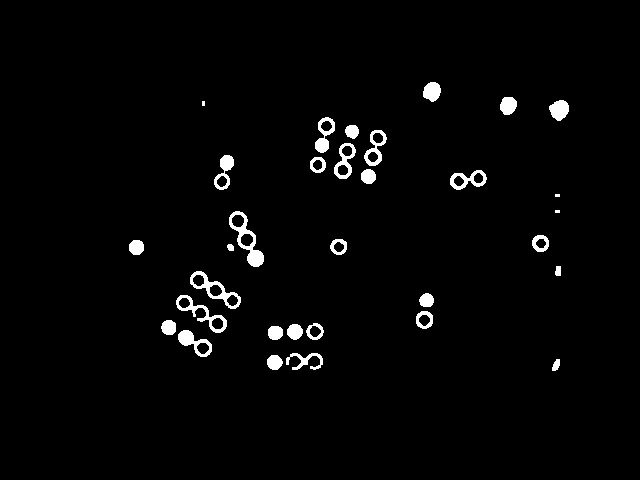
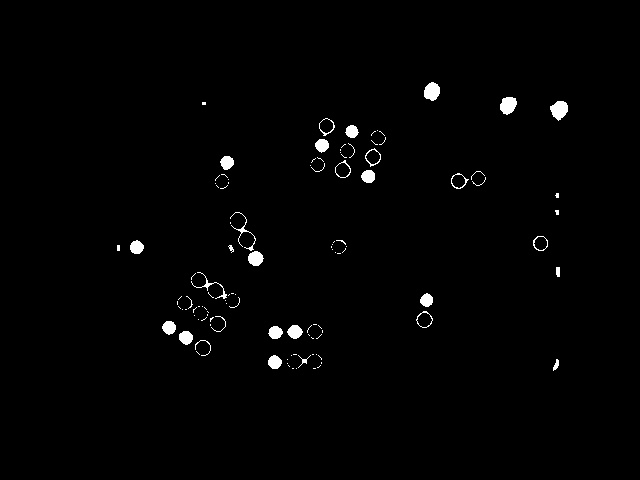
;;

diff --git a/app.py b/app.py
@@ -12,11 +12,13 @@ def getColorLayerImg(img,code_chanel):
     return new_image
 
 def findObjects(img,min_value1,min_value2):
-    cv2.imshow('111111111',   img)
+  
     # ret,tresh_image1 = cv2.threshold(img,min_value1,255,cv2.THRESH_BINARY )
     # ret,tresh_image2 = cv2.threshold(img,min_value2,255,cv2.THRESH_BINARY )
-   
-    return cv2.inRange(img,0, 40)
+    # robo 3
+    return cv2.inRange(img,5, 50)
+    # robo 2
+    # return cv2.inRange(img,100, 170)
     # return cv2.add(tresh_image1, tresh_image2)
 
 def increase_brightness(img, value=50):
@@ -54,26 +56,42 @@ def setImageLayersByPresentationMethod(img,path2folder,prefix):
 
     if(prefix == "lab"):
 
-    
-     
-        tmp = findObjects( b + b + g ,155,10)
- 
+        # cv2.imshow('b2',   b )
+        # cv2.imshow('r3',   r )
+        # cv2.imshow('g4',   g)
+        # # cv2.imshow('tmp', dark_lab)
+        # cv2.waitKey(0)
+        # cv2.destroyAllWindows()        
+        tmp = findObjects( b + b + g  ,155,10)
+        # tmp = findObjects( b +b + g -r ,255,0)
+        
+       
+        # cv2.imshow(' b  + g',    b +b + g -r )
         cv2.imwrite(path2folder+ "/binary/lab/blue_lab_binary.jpg",tmp)  
   
        
         image_copy = tmp.copy()
-        cv2.imshow('tmp',   tmp )
+        
        
         # output = cv2.drawContours(image=image_copy, contours=contours, contourIdx=-1, color=(22, 222, 30), thickness=3, lineType=cv2.LINE_AA)
-        kernel = np.ones((5, 5), 'uint8')
- 
-        # dilate_img = cv2.dilate(tmp, kernel, iterations=1)
-        # kernel = np.ones((3, 3), 'uint8')
-        # erode_img = cv2.erode(dilate_img, kernel, iterations=1)
-       
+        kernel = np.ones((3,3), 'uint8')
+        contours, hierarchy = cv2.findContours( image_copy, cv2.RETR_TREE, cv2.CHAIN_APPROX_SIMPLE)
+        cv2.drawContours( image_copy, contours, -1, (255,0,0), 3, cv2.LINE_AA, hierarchy, 1 )
+        dilate_img = cv2.dilate(image_copy, kernel, iterations=1)
+        kernel = np.ones((3, 3), 'uint8')
+        erode_img = cv2.erode(dilate_img, kernel, iterations=1)
+        # dilate_img_v2 = prepareImageV2(erode_img)
+        # kernel = np.ones((3,3), 'uint8')
+        # dilate_img_v2 = cv2.dilate(dilate_img_v2, kernel, iterations=1)
+        # kernel = np.ones((4, 4), 'uint8')
+        # erode_img2 = cv2.erode(erode_img, kernel, iterations=1)
         # erode_img_medianBlur = cv2.medianBlur(erode_img, 3)
-        cv2.imshow('erode_img',   tmp )
+        # cv2.imshow('erode_img',   erode_img )
         # cv2.imshow('erode_img_medianBlur 3111',   erode_img_medianBlur )
+        # canny = cv2.Canny(dilate_img, 10, 250)
+        cv2.imshow('image_copy',erode_img)
+        # cv2.imshow('tmp',   prepareImageV2(image_copy-tmp ))
+        # cv2.imshow('tmp prepared',   (tmp) )
         cv2.waitKey(0)
         cv2.destroyAllWindows()
         cv2.imwrite(path2folder+ "/binary/lab/blue_lab_fields_new.jpg",tmp)
@@ -90,26 +108,29 @@ def clahe(img_yuv, clipLimit=2.0, tileGridSize=(5,5)):
     img_output = cv2.cvtColor(img_yuv, cv2.COLOR_LAB2RGB)
 
     return img_output 
+def prepareImageV2(img):
+#         # img_blur_3 = cv2.medianBlur(img, 3)
+    # img_blur_7 = cv2.medianBlur(img, 7)
+    img = cv2.medianBlur(img,3)
+    # img_blur_11 = cv2.GaussianBlur(img_blur_11, (3, 3), 0)
+# 
+    return img
 def prepareImage(img):
     # img_blur_3 = cv2.medianBlur(img, 3)
     # img_blur_7 = cv2.medianBlur(img, 7)
     img_blur_11 = cv2.medianBlur(img, 9)
     img_blur_11 = cv2.GaussianBlur(img_blur_11, (3, 3), 0)
-    # cv2.imshow('contours', img_blur_11)
-    # cv2.waitKey(0)
-    # cv2.destroyAllWindows()
+
     return img_blur_11
 def getImageLayers(img, path2folder):
 
     # cv2.imshow('tmp1', img)
-    # cv2.imshow('tmp2', increase_brightness(img,300))
-    img = increase_brightness(img,250)
-   
-
+    # cv2.imshow('tmp2', increase_brightness(img,300))\
+    img = increase_brightness(img,255)
     dark_lab = cv2.cvtColor(img, cv2.COLOR_BGR2LAB)
+
     # setImageLayersByPresentationMethod(img,path2folder,"rgb")
     # clahe(img) 
-  
     setImageLayersByPresentationMethod(dark_lab,path2folder,"lab")
     return;
     
